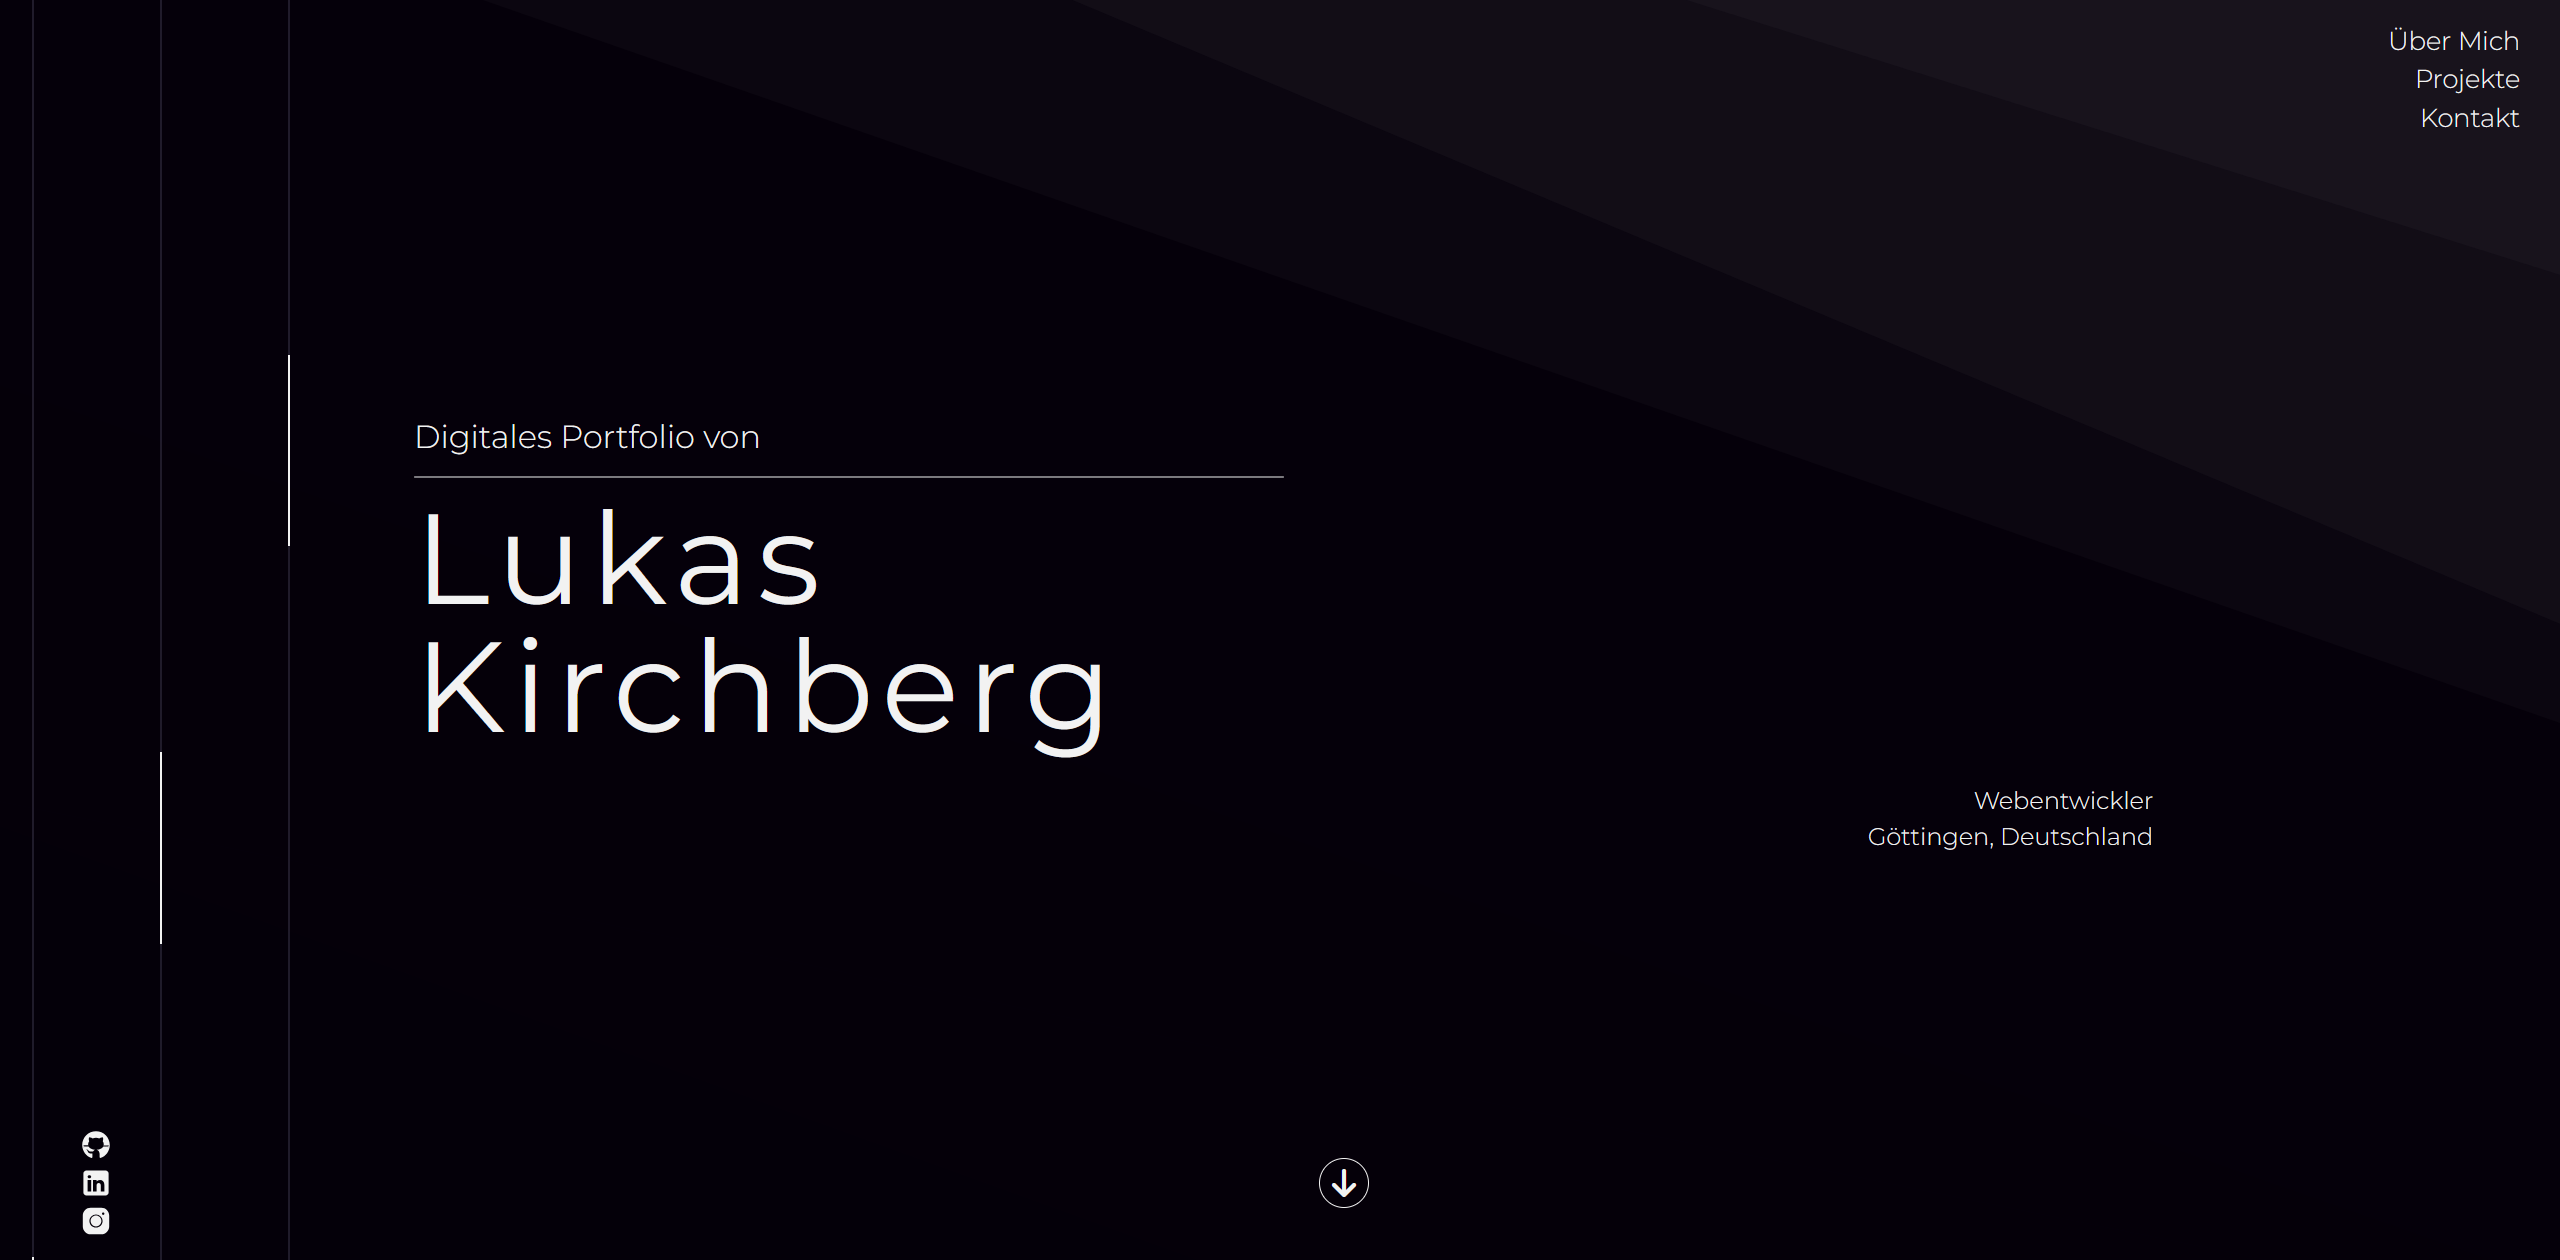
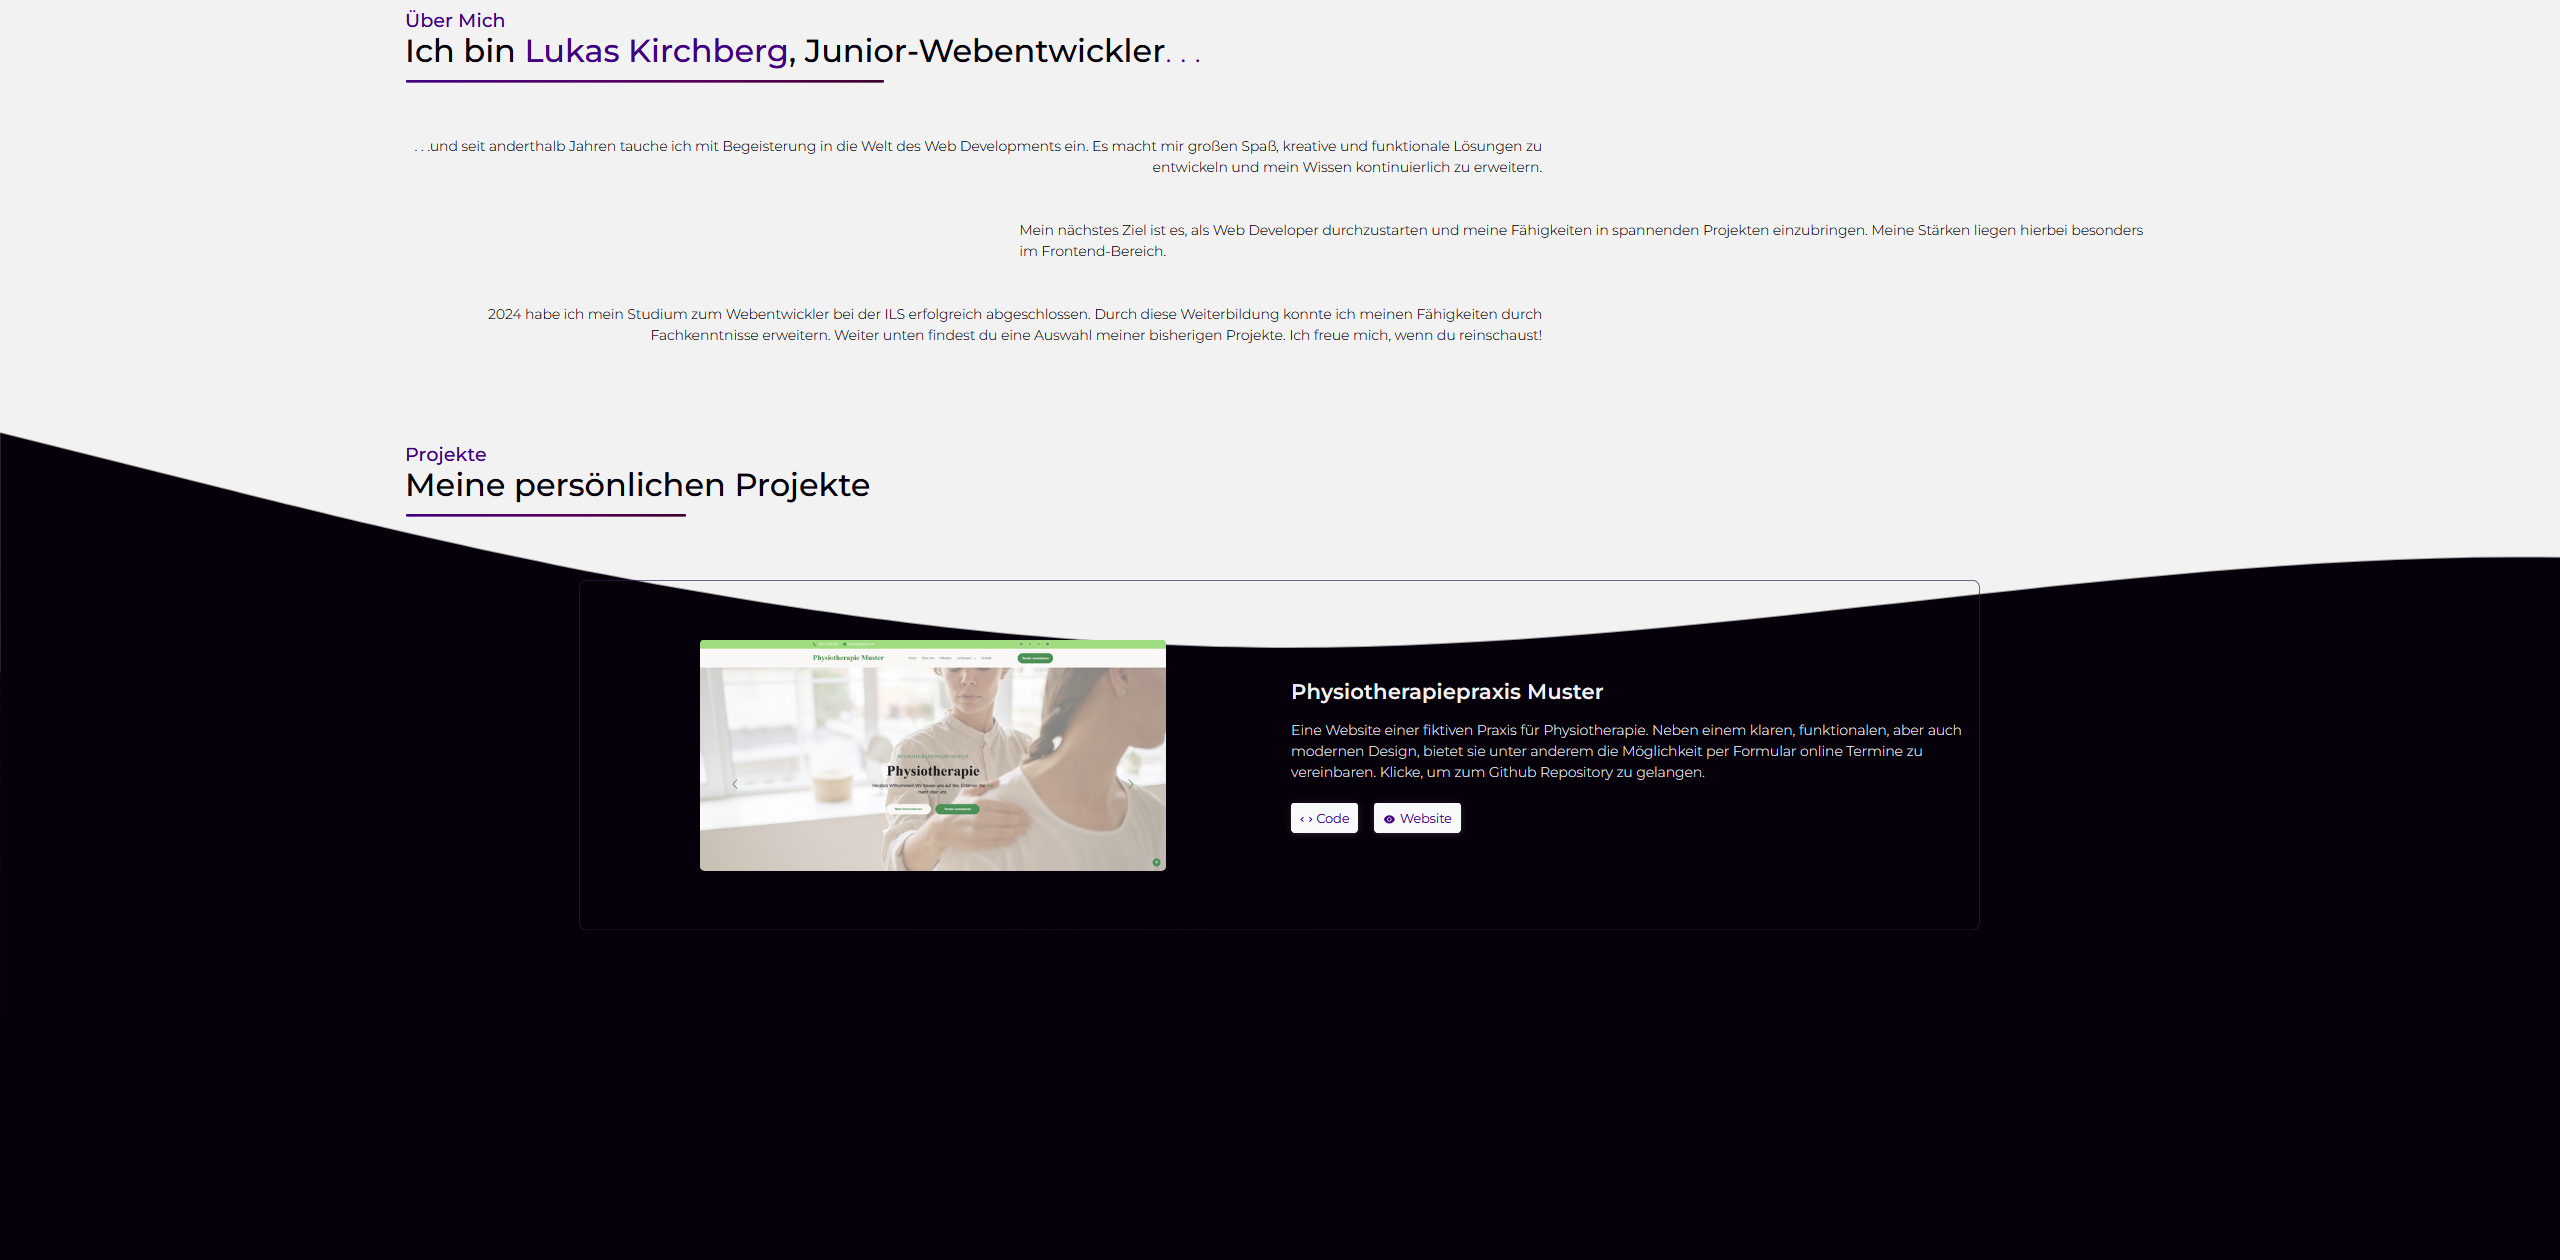
Updating img

diff --git a/index.html b/index.html
@@ -360,7 +360,7 @@
           <div class="project-item-one">
             <a href="https://luma-blog.de">
               <img
-                src="assets/img/card-img-luma.png"
+                src="assets/img/project-img-luma.png"
                 alt="Bild der Website
                 Luma-Blog"
                 class="img-fluid rounded"
@@ -428,7 +428,7 @@
           <div class="project-item-one">
             <a href="https://github.com/LuKir5/Portfolio">
               <img
-                src="assets/img/project-img-portfolio2.png"
+                src="assets/img/project-img-portfolio.png"
                 alt="Bild von dieser Portfolio Website"
                 class="img-fluid rounded"
             /></a>
